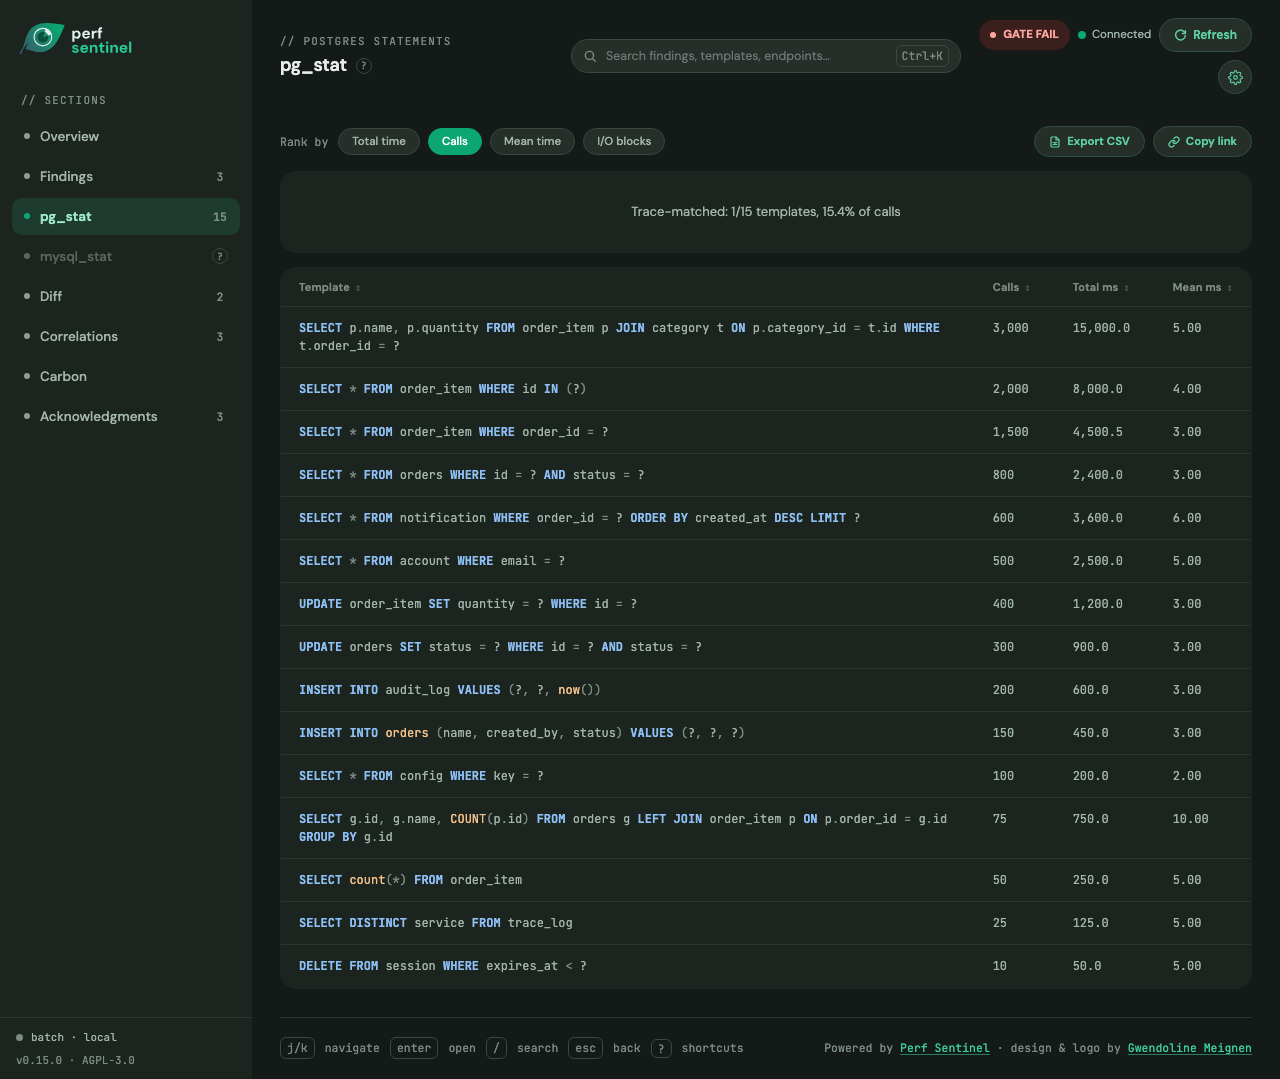
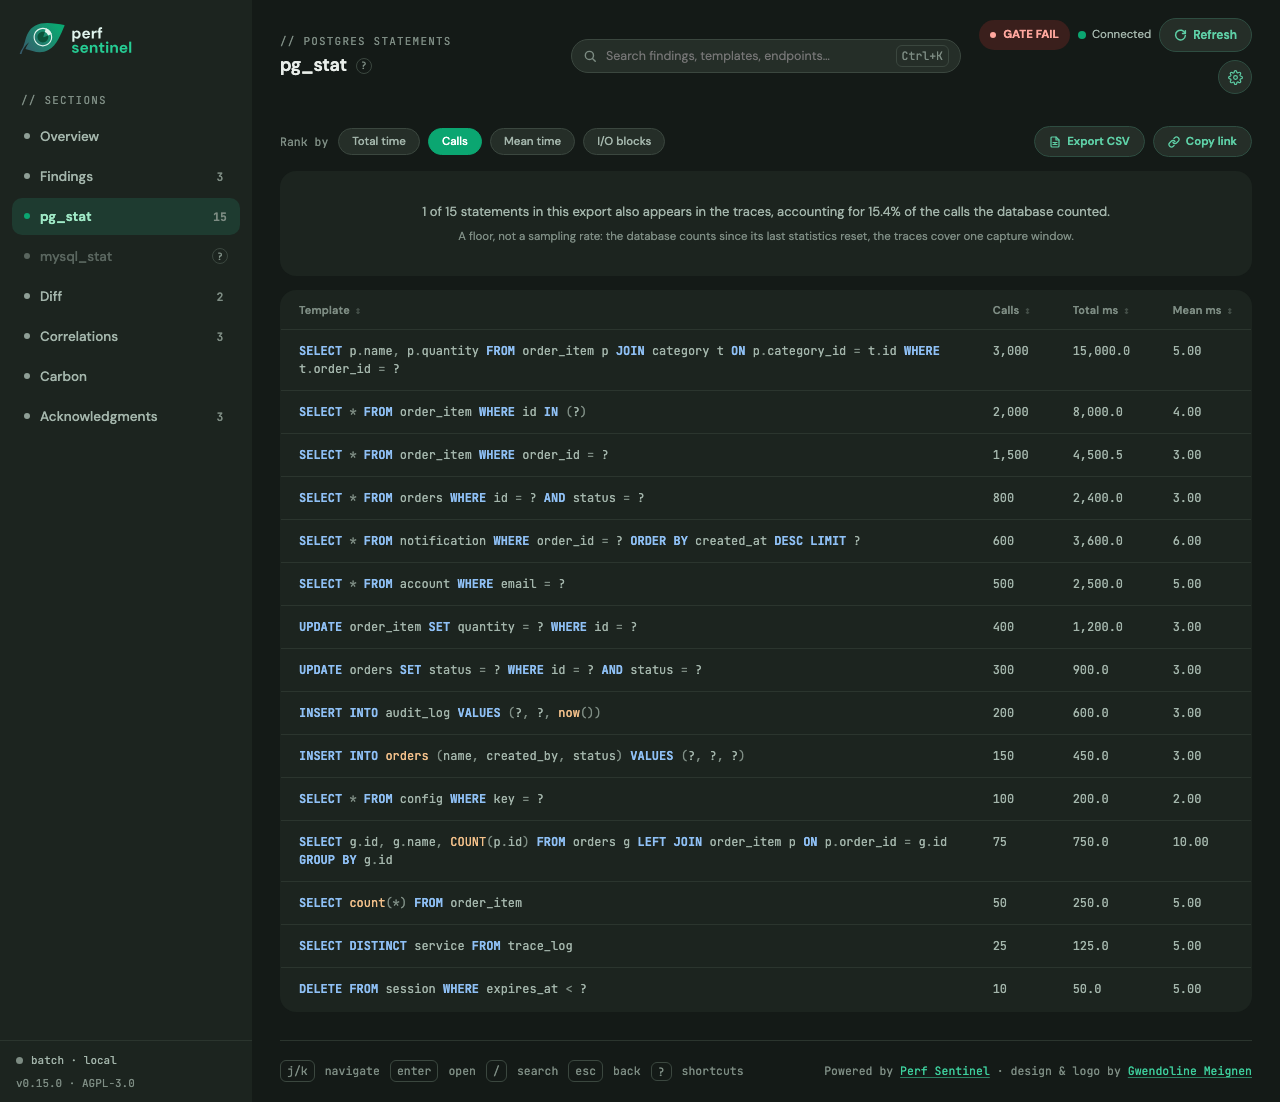
fix(dashboard): spell out the trace-match figure and inset the diff empty state

diff --git a/crates/sentinel-core/src/report/html/html_template.html b/crates/sentinel-core/src/report/html/html_template.html
@@ -465,6 +465,8 @@
      not read as a code chip sitting next to a real config section. */
   .ps-warn-kind { font-family: var(--font-ui); font-size: 9.5px; font-weight: 600; letter-spacing: 0.08em; text-transform: uppercase; opacity: 0.45; margin-right: 9px; }
   .ps-empty { padding: 30px; text-align: center; color: var(--text-2); font-size: 13px; background: var(--surface); border: 1px solid transparent; border-radius: var(--r); }
+  /* The caveat under the trace-match figure. Smaller and dimmer so it reads as a qualifier, not as a second finding. */
+  .ps-trace-match-note { margin-top: 6px; font-size: 11.5px; color: var(--text-3); }
   .ps-drill { background: var(--info-bg); border: 0; border-radius: 10px; padding: 10px 12px; font-size: 11.5px; color: var(--info-fg); }
   .ps-drill-label { font-size: 11.5px; color: var(--info-fg); margin-bottom: 4px; opacity: .8; }
   .ps-drill-clear { color: var(--info-fg); text-decoration: underline; cursor: pointer; margin-left: 8px; }
@@ -524,6 +526,12 @@
   /* When a section has no table below it, match the bottom padding to the top
      so the grey card is symmetric around the header text. */
   .ps-diff-section-header.empty { padding-bottom: 15px; }
+  /* The empty state is a sibling of .ps-list, which insets its rows by 10px.
+     Without the same inset the box runs edge to edge and the two columns stop
+     lining up. --surface-2 rather than the .ps-empty default: on the light
+     theme --surface is #f7f7f7, which reads as a grey slab dropped into the
+     tinted column instead of a card like the rows opposite it. */
+  .ps-diff-section .ps-empty { margin: 0 10px 10px; padding: 26px 18px; background: var(--surface-2); border-radius: 10px; }
   .ps-diff-section-header.red { color: var(--crit-fg); }
   .ps-diff-section-header.green { color: var(--ok-fg); }
   /* Regression left, progress right: the tint guides the eye before the
@@ -4020,16 +4028,31 @@
     renderTraceMatchLine("pgstat-trace-match", pgStat && pgStat.trace_match);
   }
 
-  // Matched share from the trace cross-reference. Worded "trace-matched",
-  // not "coverage": the database counters are cumulative since the last
-  // stats reset while the traces cover one capture window.
+  // Matched share from the trace cross-reference. Spelled out rather than
+  // labelled "trace-matched": the two figures compare different things, and
+  // the share of calls is not the share of statements. Never called
+  // "coverage" either, hence the second line: the database counters are
+  // cumulative since the last stats reset while the traces cover one capture
+  // window, so this understates tracing instead of measuring a sampling rate.
   function renderTraceMatchLine(id, tm) {
     var host = document.getElementById(id);
     if (!host || !tm || !tm.total_templates) return;
     var pct = tm.total_calls > 0 ? (tm.matched_calls / tm.total_calls) * 100 : 0;
-    host.textContent =
-      "Trace-matched: " + tm.matched_templates + "/" + tm.total_templates +
-      " templates, " + pct.toFixed(1) + "% of calls";
+    var noun = tm.total_templates === 1 ? " statement" : " statements";
+    var verb = tm.matched_templates === 1 ? " also appears" : " also appear";
+    host.textContent = "";
+    var fact = document.createElement("div");
+    fact.textContent =
+      tm.matched_templates + " of " + tm.total_templates + noun +
+      " in this export" + verb + " in the traces, accounting for " +
+      pct.toFixed(1) + "% of the calls the database counted.";
+    var caveat = document.createElement("div");
+    caveat.className = "ps-trace-match-note";
+    caveat.textContent =
+      "A floor, not a sampling rate: the database counts since its last " +
+      "statistics reset, the traces cover one capture window.";
+    host.appendChild(fact);
+    host.appendChild(caveat);
     host.style.display = "";
   }
 

diff --git a/crates/sentinel-cli/src/pg_stat.rs b/crates/sentinel-cli/src/pg_stat.rs
@@ -329,13 +329,22 @@ fn print_pg_stat_report(report: &sentinel_core::ingest::pg_stat::PgStatReport) {
     println!("{bold}{cyan}=== pg_stat_statements analysis ==={reset}");
     println!("{dim}Total entries: {}{reset}", report.total_entries);
     if let Some(tm) = &report.trace_match {
-        // "Matched share", not "coverage": pg_stat counters are cumulative
-        // since the last stats reset while the traces cover one window.
+        // Spelled out rather than labelled: the share of statements and the
+        // share of calls are different figures, and a reader who meets
+        // "trace-matched" cold has nothing to anchor either to. Still never
+        // "coverage", hence the second line: pg_stat counters are cumulative
+        // since the last stats reset while the traces cover one window, so
+        // this understates tracing instead of measuring a sampling rate.
         println!(
-            "{dim}Trace-matched:{reset} {}/{} templates, {:.1}% of calls",
+            "{dim}Also seen in the traces: {} of {} statement(s) here, \
+             accounting for {:.1}% of the calls the database counted.{reset}",
             tm.matched_templates,
             tm.total_templates,
             tm.calls_share_percent()
+        );
+        println!(
+            "{dim}A floor, not a sampling rate: the database counts since its \
+             last statistics reset, the traces cover one capture window.{reset}"
         );
     }
     if let Some(cov) = &report.trace_coverage {

diff --git a/crates/sentinel-cli/src/mysql_stat.rs b/crates/sentinel-cli/src/mysql_stat.rs
@@ -253,13 +253,22 @@ fn print_mysql_stat_report(report: &sentinel_core::ingest::mysql_stat::MySqlStat
     println!("{bold}{cyan}=== performance_schema digest analysis ==={reset}");
     println!("{dim}Total entries: {}{reset}", report.total_entries);
     if let Some(tm) = &report.trace_match {
-        // "Matched share", not "coverage": digest counters are cumulative
-        // since the last stats reset while the traces cover one window.
+        // Spelled out rather than labelled: the share of statements and the
+        // share of calls are different figures, and a reader who meets
+        // "trace-matched" cold has nothing to anchor either to. Still never
+        // "coverage", hence the second line: digest counters are cumulative
+        // since the last stats reset while the traces cover one window, so
+        // this understates tracing instead of measuring a sampling rate.
         println!(
-            "{dim}Trace-matched:{reset} {}/{} templates, {:.1}% of calls",
+            "{dim}Also seen in the traces: {} of {} statement(s) here, \
+             accounting for {:.1}% of the calls the database counted.{reset}",
             tm.matched_templates,
             tm.total_templates,
             tm.calls_share_percent()
+        );
+        println!(
+            "{dim}A floor, not a sampling rate: the database counts since its \
+             last statistics reset, the traces cover one capture window.{reset}"
         );
     }
     println!();

diff --git a/CHANGELOG.md b/CHANGELOG.md
@@ -8,7 +8,7 @@ All notable changes to perf-sentinel are documented in this file. Format loosely
 
 - The diff pairs template mutations instead of reporting them as one resolved plus one new finding: leftovers sharing the same detector, service, endpoint and grouping (arbitrated by the `code.*` anchor when several candidates remain) land in `mutated_findings`, counted neither as new nor as resolved, so a schema refactor no longer fails a CI gate fed by `new_findings`. The pairing never guesses: anything ambiguous stays reported as resolved plus new.
 - An `unmatched_acknowledgment` warning now names the candidate successor when exactly one current finding shares the acked signature's detector, service and endpoint with a different template hash: the template drifted rather than the problem being fixed. The ack is never transferred automatically, a signature is a suppression boundary.
-- `pg-stat` and `mysql-stat` cross-reference statements against every SQL template observed in the traces instead of only the templates that produced a finding, so a healthy traced query finally gets its `[seen in traces]` marker, and both report the matched share (`trace_match`: templates and calls-weighted percentage, also shown on the dashboard panels). Worded "trace-matched", not "coverage": the database counters are cumulative since the last statistics reset.
+- `pg-stat` and `mysql-stat` cross-reference statements against every SQL template observed in the traces instead of only the templates that produced a finding, so a healthy traced query finally gets its `[seen in traces]` marker, and both report the matched share (`trace_match`: templates and calls-weighted percentage, also shown on the dashboard panels). Both surfaces spell the figure out rather than labelling it, because the share of statements and the share of calls are two different numbers and a bare "trace-matched: 1/15 templates, 15.4% of calls" gives a reader nothing to anchor either to. Never called "coverage" either, and the reason now ships next to the number instead of living in a code comment: the database counters are cumulative since the last statistics reset while the traces cover one capture window, so the figure is a floor on how much is traced, not a sampling rate.
 - `pg-stat --baseline <earlier-export>` (with `--traces`) compares the call delta between two `pg_stat_statements` snapshots framing the trace window to the traced span counts on the same templates, and reports an empirical tracing coverage (`trace_coverage`). Counter resets between the snapshots are detected, skipped, and surfaced as a warning.
 - Each daemon archive line now carries the cumulative `archive_windows_dropped_total` value at write time, and the periodic disclosure schema moves to `perf-sentinel-report/v1.7`: `integrity.trace_integrity_chain` gains `windows_dropped` (windows produced but not archived over the period, derived from the counter deltas) and `drop_counter_resets` (daemon restarts inside the period, each making the figure a lower bound). Both absent on archives written before the counter, so an old archive never reads as zero drops. Re-hashing a v1.6 report on this binary keeps its `content_hash`.
 - `perf_sentinel_archive_windows_dropped_total` counts the per-window disclosure archive entries dropped instead of written, by `reason` (`channel_full`, `writer_exited`, `serialize_error`, `write_error`). The drop-on-full policy is deliberate, a stalled filesystem must never block the analysis path, but until now every loss was a warn log and nothing else: the archive hash chain only advances on a successful write, so a dropped window leaves no hole in `seq` and `disclose verify-hash` cannot see the gap after the fact. This counter is the scrape-visible witness, pre-warmed to zero for all four reasons so a healthy archive and a missing metric stay distinguishable. Two blind spots remain that no counter can close: a writer task that dies discards its queued backlog uncounted, and a hard kill before the shutdown drain finishes does the same. Alert on `rate(...) > 0` and read a nonzero rate as "the archive under-reports the period, at least by this much".
